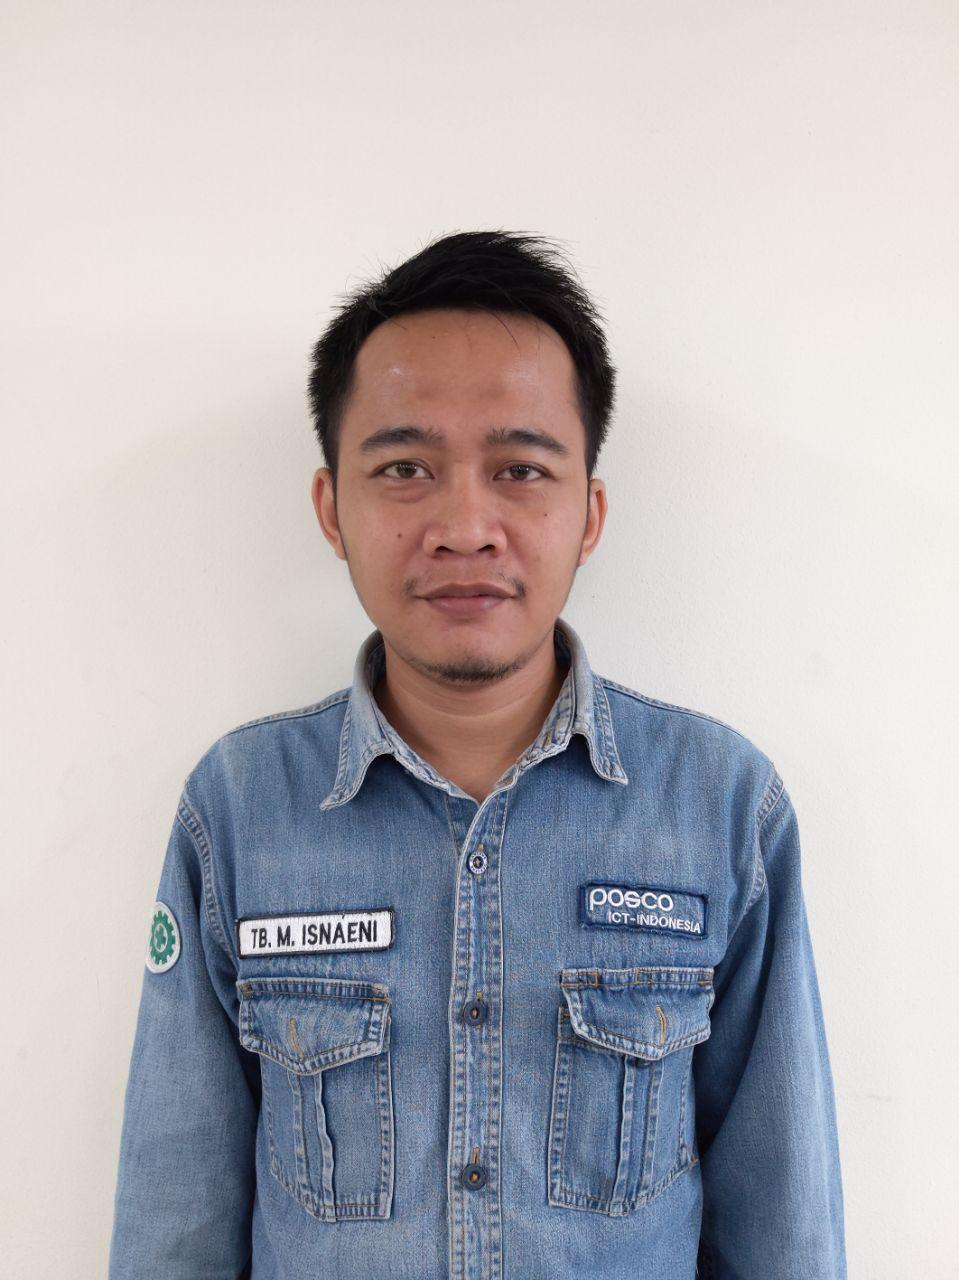
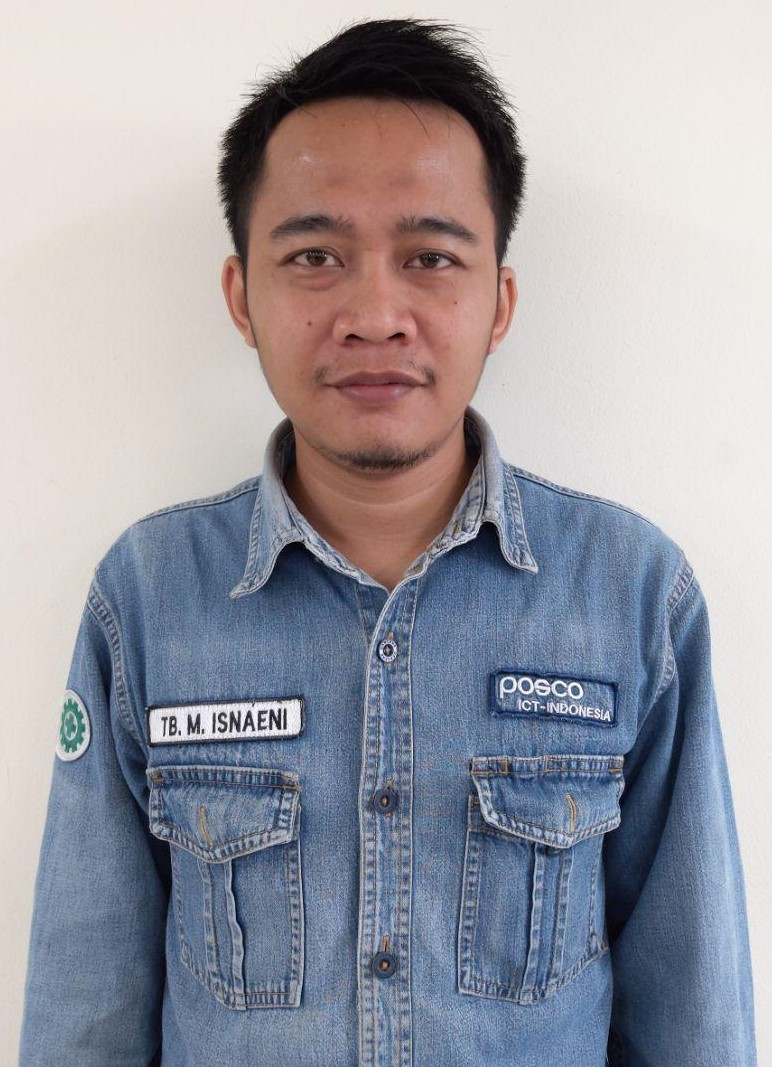
added initial style.css to style the profile

diff --git a/index.html b/index.html
@@ -1,9 +1,11 @@
 <html>
     <head>
+        <link rel="stylesheet" href="style.css">
+    </head>
         <body>
             <div id=“profile-container”>
-                <img src="images/tubagus.jpg" alt="profile image" />
+                <img id="profile-image" src="images/tubagus.jpg" alt="profile image" />
                 <h2 id="profile-name">Tubagus Isnaeni</h2>
              </div>
         </body>
-    </head>
+</html>

diff --git a/style.css b/style.css
@@ -1,0 +1,21 @@
+body {
+    width: 100%;
+    margin: 30px;
+    background-color: antiquewhite;
+ }
+  
+ #profile-container{
+    max-width: 300px;
+    background-color: white;
+    border: 1px solid gray;
+    border-radius: 6px;
+ }
+  
+ #profile-image{
+    width: 20%;
+    height: auto;
+ }
+  
+ #profile-name{
+    text-align: center;
+ }
